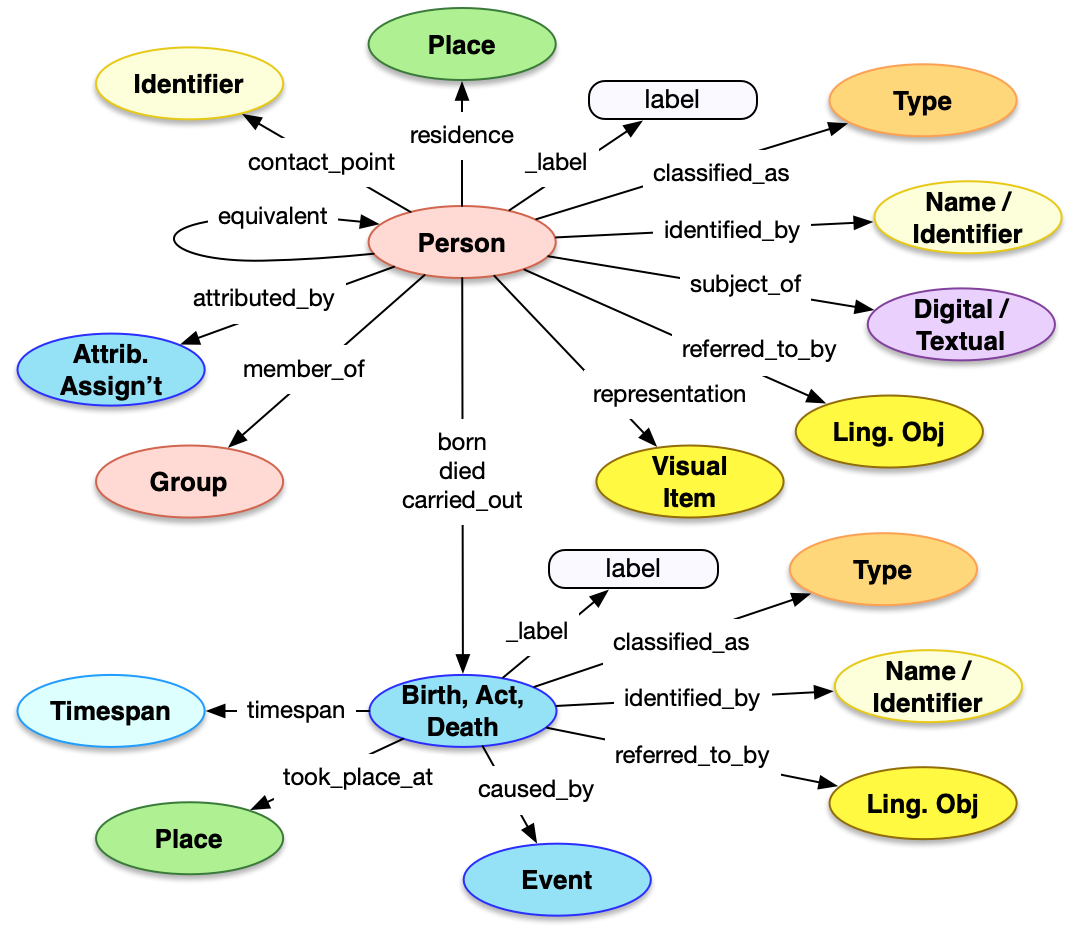
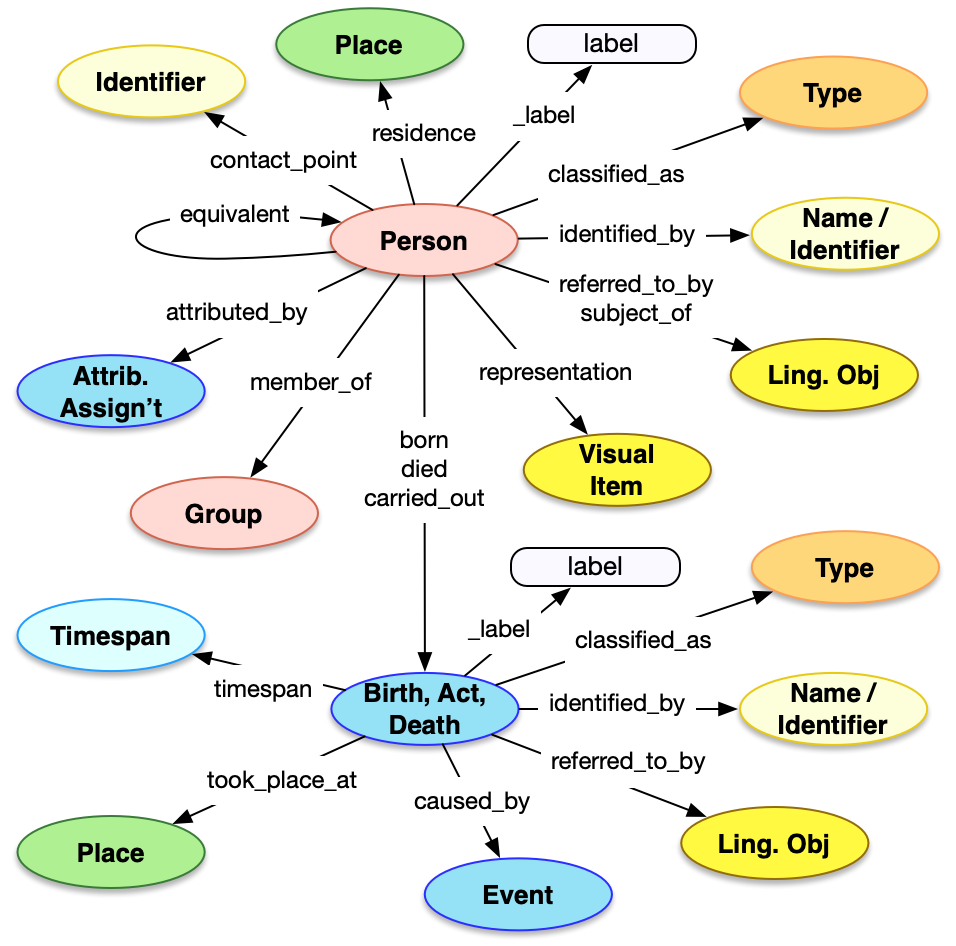
new diagrams, remove subject_of -> digital direct link

diff --git a/content/api/1.0/endpoint/place/index.html b/content/api/1.0/endpoint/place/index.html
@@ -40,7 +40,7 @@ Dereferencing an entity via the Place endpoint would result in a JSON-LD documen
 | `equivalent`      | array         | Optional    | An array of json objects, each of which is a [reference](../../shared/reference) to an external identity and description of the current Place |
 | `representation`  | array         | Optional    | An array of json objects, each of which is a reference to a [Visual Work](../visual_work) that represents the current Place, and MUST follow the requirements for a [reference](../../shared/reference/) |
 | `member_of`       | array         | Optional    | An array of json objects, each of which is a reference to a [Set](../set/) that the current Place is a member of and MUST follow the requirements for a [reference](../../shared/reference/) |
-| `subject_of`      | array         | Optional    | An array of json objects, each of which is a reference to either a [Digital Object](../digital_object/) or a [Textual Work](../textual_work/), the content of which focuses on the current Place, and MUST follow the requirements for a [reference](../../shared/reference) |
+| `subject_of`      | array         | Optional    | An array of json objects, each of which is a reference to a [Textual Work](../textual_work/), the content of which focuses on the current Place, and MUST follow the requirements for a [reference](../../shared/reference) |
 | `attributed_by`   | array         | Optional    | An array of json objects, each of which is a [Relationship Assignment](../../shared/assignment/) that relates the current Place to another entity |
 | `part_of`         | array         | Optional    | An array of json objects, each of which is a Place that the current Place falls within and MUST follow the requirements for a [reference](../../shared/reference/) to a Place |
 | `approximated_by` | array         | Optional    | An array of json objects, each of which is an approximation of the current Place and MUST follow the requirements for a [reference](../../shared/reference/) to a Place |

diff --git a/content/api/1.0/endpoint/person/index.html b/content/api/1.0/endpoint/person/index.html
@@ -41,7 +41,7 @@ Dereferencing an entity via the Person endpoint would result in a JSON-LD docume
 | `equivalent`      | array         | Optional    | An array of json objects, each of which is a [reference](../../shared/reference) to an external identity and description of the current Person |
 | `representation`  | array         | Optional    | An array of json objects, each of which is a reference to a [Visual Work](../visual_work) that represents the current Person, and MUST follow the requirements for a [reference](../../shared/reference/) |
 | `member_of`       | array         | Optional    | An array of json objects, each of which is a Group that the current Person is a member of and MUST follow the requirements for a [reference](../../shared/reference/) to a **[Group](../group/)** |
-| `subject_of`      | array         | Optional    | An array of json objects, each of which is a reference to either a [Digital Object](../digital_object/) or a [Textual Work](../textual_work/), the content of which focuses on the current Person, and MUST follow the requirements for a [reference](../../shared/reference) |
+| `subject_of`      | array         | Optional    | An array of json objects, each of which is a reference to a [Textual Work](../textual_work/), the content of which focuses on the current Person, and MUST follow the requirements for a [reference](../../shared/reference) |
 | `attributed_by`   | array         | Optional    | An array of json objects, each of which is a [Relationship Assignment](../../shared/assignment/) that relates the current Person to another entity |
 | `carried_out` | array | Optional | An array of json objects, each of which represents professional activities of the person and follows the requirements for Professional Activities described below. |
 | `contact_point` | array | Optional | An array of json objects, each of which is an address at which the person is reachable and MUST follow the requirements for an [Identifier](../../shared/identifier) |

diff --git a/content/api/1.0/endpoint/group/index.html b/content/api/1.0/endpoint/group/index.html
@@ -41,7 +41,7 @@ Dereferencing an entity via the Group endpoint would result in a JSON-LD documen
 | `equivalent`      | array         | Optional    | An array of json objects, each of which is a [reference](../../shared/reference) to an external identity and description of the current group |
 | `representation`  | array         | Optional    | An array of json objects, each of which is a reference to a [Visual Work](../visual_work) that represents the current group, and MUST follow the requirements for a [reference](../../shared/reference/) |
 | `member_of`       | array         | Optional    | An array of json objects, each of which is a Group that the current group is a member of and MUST follow the requirements for a [reference](../../shared/reference/) to a **[Group](../group/)** |
-| `subject_of`      | array         | Optional    | An array of json objects, each of which is a reference to either a [Digital Object](../digital_object/) or a [Textual Work](../textual_work/), the content of which focuses on the current group, and MUST follow the requirements for a [reference](../../shared/reference) |
+| `subject_of`      | array         | Optional    | An array of json objects, each of which is a reference to a [Textual Work](../textual_work/), the content of which focuses on the current group, and MUST follow the requirements for a [reference](../../shared/reference) |
 | `attributed_by`   | array         | Optional    | An array of json objects, each of which is a [Relationship Assignment](../../shared/assignment/) that relates the current group to another entity |
 | `carried_out` | array | Optional | An array of json objects, each of which represents professional activities of the group and follows the requirements for Professional Activities described below. |
 | `contact_point` | array | Optional | An array of json objects, each of which is an address at which the group is reachable and MUST follow the requirements for an [Identifier](../../shared/identifier) |

diff --git a/content/api/1.0/endpoint/visual_work/index.html b/content/api/1.0/endpoint/visual_work/index.html
@@ -40,7 +40,7 @@ Dereferencing an entity via the Visual Work endpoint would result in a JSON-LD d
 | `referred_to_by`  | array         | Optional    | An array of json objects, each of which is a human readable statement about the visual work and MUST follow the requirements for [Statement](../../shared/statement/) |
 | `equivalent`      | array         | Optional    | An array of json objects, each of which is a [reference](../../shared/reference) to an external identity and description of the current visual work |
 | `member_of`       | array         | Optional    | An array of json objects, each of which is a Set that the current visual work is a member of and MUST follow the requirements for a [reference](../../shared/reference/) to a Set |
-| `subject_of`      | array         | Optional    | An array of json objects, each of which is a reference to either a [Digital Object](../digital_object/) or a [Textual Work](../textual_work/), the content of which focuses on the current visual work, and MUST follow the requirements for a [reference](../../shared/reference/) |
+| `subject_of`      | array         | Optional    | An array of json objects, each of which is a reference to a [Textual Work](../textual_work/), the content of which focuses on the current visual work, and MUST follow the requirements for a [reference](../../shared/reference/) |
 | `attributed_by`   | array         | Optional    | An array of json objects, each of which is a [Relationship Assignment](../../shared/assignment/) that relates the current visual work to another entity |
 | `dimension` | array | Optional | An array of json objects, each of which is a [Dimension](../../shared/dimension), such as abstract height or width, of the current visual work |
 | `part_of` | array | Optional | An array of json objects, each of which is a [reference](../../shared/reference/) to another Visual Work that the current visual work is a part of |

diff --git a/content/api/1.0/endpoint/event/index.html b/content/api/1.0/endpoint/event/index.html
@@ -38,7 +38,7 @@ Dereferencing an entity via the Event endpoint would result in a JSON-LD documen
 | `equivalent`      | array         | Optional    | An array of json objects, each of which is a [reference](../../shared/reference) to an external identity and description of the current event |
 | `representation`  | array         | Optional    | An array of json objects, each of which is a reference to a [Visual Work](../visual_work) that represents the current event, and MUST follow the requirements for a [reference](../../shared/reference/) |
 | `member_of`       | array         | Optional    | An array of json objects, each of which is a Set that the current event is a member of and MUST follow the requirements for a [reference](../../shared/reference/) to a Set |
-| `subject_of`      | array         | Optional    | An array of json objects, each of which is a reference to either a [Digital Object](../digital_object/) or a [Textual Work](../textual_work/), the content of which focuses on the current event, and MUST follow the requirements for a [reference](../../shared/reference/) |
+| `subject_of`      | array         | Optional    | An array of json objects, each of which is a reference to a [Textual Work](../textual_work/), the content of which focuses on the current event, and MUST follow the requirements for a [reference](../../shared/reference/) |
 | `attributed_by`   | array         | Optional    | An array of json objects, each of which is a [Relationship Assignment](../../shared/assignment/) that relates the current event to another entity |
 | `part_of` | array | Optional | An array of json objects, each of which is a [reference](../../shared/reference/) to another Event that the current event is a part of. |
 | `timespan`        | json object   | Recommended | A json object recording when the event occured, which MUST follow the requirements for [timespans](../timespan/)|

diff --git a/content/api/1.0/endpoint/textual_work/index.html b/content/api/1.0/endpoint/textual_work/index.html
@@ -41,7 +41,7 @@ Dereferencing an entity via the Textual Work endpoint would result in a JSON-LD 
 | `equivalent`      | array         | Optional    | An array of json objects, each of which is a [reference](../../shared/reference) to an external identity and description of the current text |
 | `representation`  | array         | Optional    | An array of json objects, each of which is a reference to a [Visual Work](../visual_work) that represents the current text, and MUST follow the requirements for a [reference](../../shared/reference/) |
 | `member_of`       | array         | Optional    | An array of json objects, each of which is a Set that the current text is a member of and MUST follow the requirements for a [reference](../../shared/reference/) to a Set |
-| `subject_of`      | array         | Optional    | An array of json objects, each of which is a reference to either a [Digital Object](../digital_object/) or another Textual Work, the content of which focuses on the current text, and MUST follow the requirements for a [reference](../../shared/reference/) |
+| `subject_of`      | array         | Optional    | An array of json objects, each of which is a reference to another Textual Work, the content of which focuses on the current text, and MUST follow the requirements for a [reference](../../shared/reference/) |
 | `attributed_by`   | array         | Optional    | An array of json objects, each of which is a [Relationship Assignment](../../shared/assignment/) that relates the current text to another entity |
 | `language` | array | Optional | An array of json objects, each of which is a language the text is expressed in, and MUST follow the requirements for [Language](../../shared/type) |
 | `dimension` | array | Optional | An array of json objects, each of which is a [Dimension](../../shared/dimension), such as total number of words, of the current text |

diff --git a/content/api/1.0/endpoint/set/index.html b/content/api/1.0/endpoint/set/index.html
@@ -41,7 +41,7 @@ Dereferencing an entity via the Set endpoint would result in a JSON-LD document 
 | `equivalent`      | array         | Optional    | An array of json objects, each of which is a [reference](../../shared/reference) to an external identity and description of the current set |
 | `representation`  | array         | Optional    | An array of json objects, each of which is a reference to a [Visual Work](../visual_work) that represents the current set, and MUST follow the requirements for a [reference](../../shared/reference/) |
 | `member_of`       | array         | Optional    | An array of json objects, each of which is a Set that the current set is a member of and MUST follow the requirements for a [reference](../../shared/reference/) to a Set |
-| `subject_of`      | array         | Optional    | An array of json objects, each of which is a reference to either a [Digital Object](../digital_object/) or a [Textual Work](../textual_work/), the content of which focuses on the current set, and MUST follow the requirements for a [reference](../../shared/reference) |
+| `subject_of`      | array         | Optional    | An array of json objects, each of which is a reference to a [Textual Work](../textual_work/), the content of which focuses on the current set, and MUST follow the requirements for a [reference](../../shared/reference) |
 | `attributed_by`   | array         | Optional    | An array of json objects, each of which is a [Relationship Assignment](../../shared/assignment/) that relates the current set to another entity |
 | `dimension` | array | Optional | An array of json objects, each of which is a [Dimension](../../shared/dimension), such as total number of members, of the current set |
 | `created_by` | json object | Optional | A json object representing the creation of the set, which follows the requirements for Creations described below. | 

diff --git a/content/api/1.0/endpoint/provenance_activity/index.html b/content/api/1.0/endpoint/provenance_activity/index.html
@@ -40,7 +40,7 @@ The top level Activity has the following properties.
 | `equivalent`      | array         | Optional    | An array of json objects, each of which is a [reference](../../shared/reference) to an external identity and description of the current event |
 | `representation`  | array         | Optional    | An array of json objects, each of which is a reference to a [Visual Work](../visual_work) that represents the current event, and MUST follow the requirements for a [reference](../../shared/reference/) |
 | `member_of`       | array         | Optional    | An array of json objects, each of which is a Set that the current event is a member of and MUST follow the requirements for a [reference](../../shared/reference/) to a Set |
-| `subject_of`      | array         | Optional    | An array of json objects, each of which is a reference to either a [Digital Object](../digital_object/) or a [Textual Work](../textual_work/), the content of which focuses on the current event, and MUST follow the requirements for a [reference](../../shared/reference/) |
+| `subject_of`      | array         | Optional    | An array of json objects, each of which is a reference to a [Textual Work](../textual_work/), the content of which focuses on the current event, and MUST follow the requirements for a [reference](../../shared/reference/) |
 | `attributed_by`   | array         | Optional    | An array of json objects, each of which is a [Relationship Assignment](../../shared/assignment/) that relates the current event to another entity |
 | `part_of` | array | Optional | An array of json objects, each of which is a [reference](../../shared/reference/) to another event that the current event is a part of. |
 | `timespan`        | json object   | Recommended | A json object recording when the event occured, which MUST follow the requirements for [timespans](../timespan/)|

diff --git a/content/api/1.0/endpoint/digital_object/index.html b/content/api/1.0/endpoint/digital_object/index.html
@@ -37,7 +37,7 @@ Dereferencing an entity via the Digital Object endpoint would result in a JSON-L
 | `classified_as`   | array         | Recommended | An array of json objects, each of which is a classification of the digital object and MUST follow the requirements for [Type](../../shared/type/) |
 | `identified_by`   | array         | Recommended | An array of json objects, each of which is a name/title of the digital and MUST follow the requirements for [Name](../../shared/name/), or an identifier for the digital object and MUST follow the requirements for [Identifier](../../shared/identifier/) |
 | `referred_to_by`  | array         | Optional    | An array of json objects, each of which is a human readable statement about the digital object and MUST follow the requirements for [Statement](../../shared/statement/) |
-| `equivalent`      | array         | Optional    | An array of json objects, each of which is a [reference](../../shared/reference) to an external identity and description of the current digital object |
+| `equivalent`      | array         | Optional    | An array of json objects, each of which is a [reference](../../shared/reference) to an external identity of the current digital object |
 | `member_of`       | array         | Optional    | An array of json objects, each of which is a Set that the current digital object is a member of and MUST follow the requirements for a [reference](../../shared/reference/) to a Set |
 | `attributed_by`   | array         | Optional    | An array of json objects, each of which is a [Relationship Assignment](../../shared/assignment/) that relates the current digital object to another entity |
 | `dimension` | array | Optional | An array of json objects, each of which is a [Dimension](../../shared/dimension), such as height, width or total number of bytes, of the described digital object |
